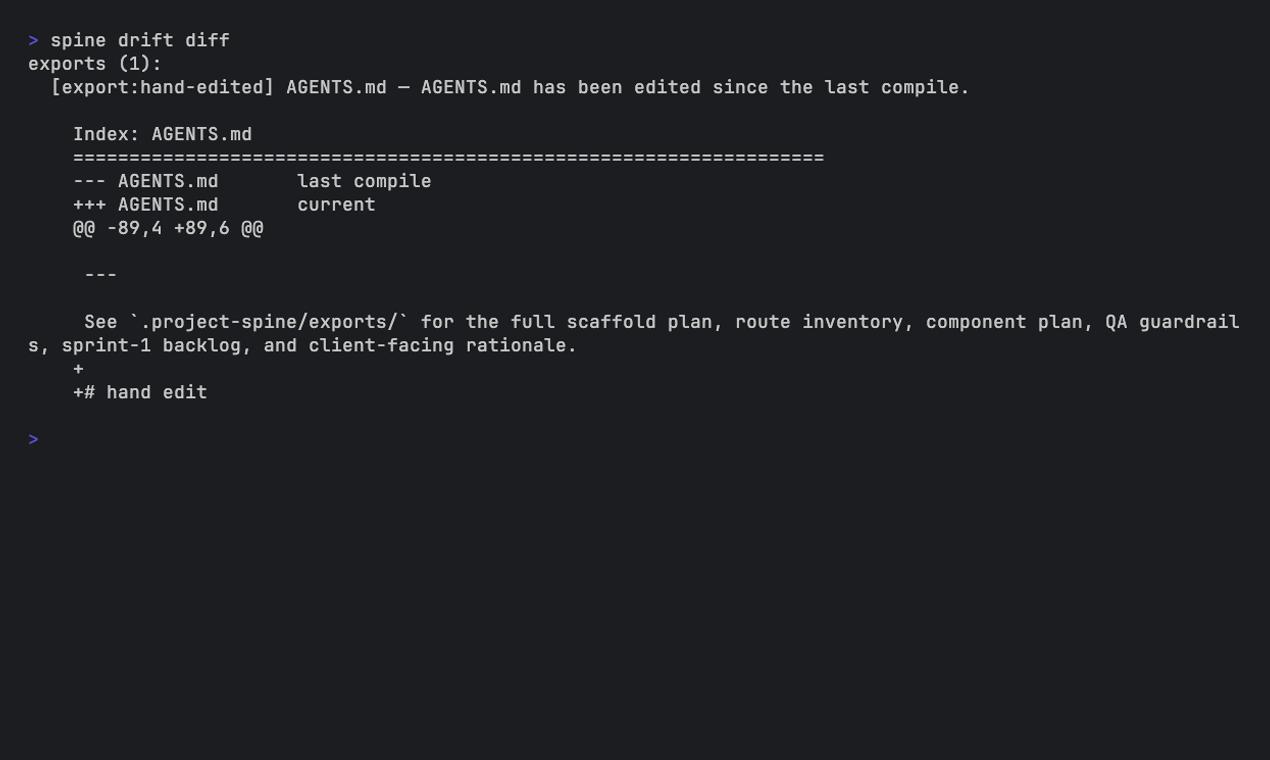
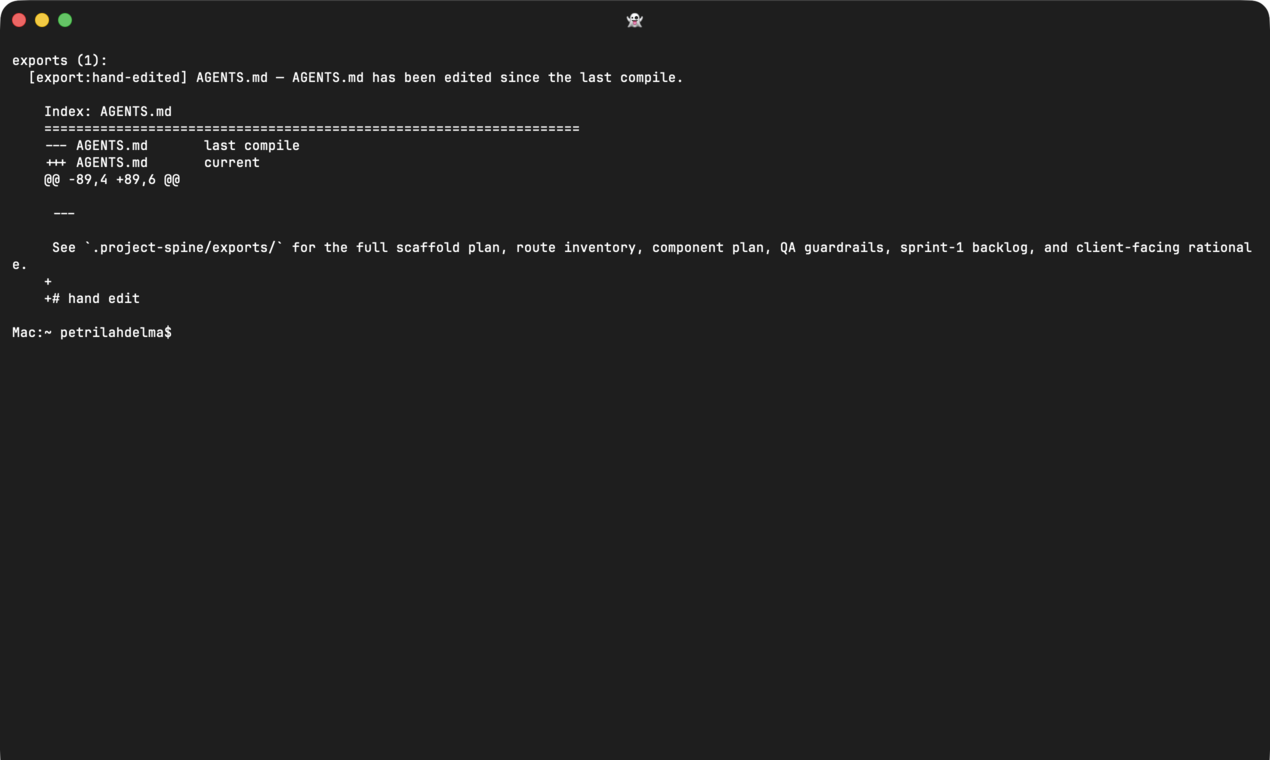
PH gallery v2: real Ghostty captures + claude slot + changelog + templates
Replaces the VHS-simulated terminal frames with authentic Ghostty
captures via screencapture -l on the Ghostty window id. Content is
byte-identical in meaning but the frames now show real Ghostty
chrome (macOS traffic lights, real font rendering, the user's actual
terminal emulator) instead of a synthesised approximation.

Gallery is now 6 assets for 5 PH slots — pick 5:

- hero.png          (unchanged — Chromium on projectspine.dev)
- demo.gif          (unchanged — the 60-s VHS demo GIF)
- drift-diff.png    (NEW, Ghostty — spine drift diff output)
- tree.png          (NEW, Ghostty — 3 discovery files + 11 exports)
- templates.png     (NEW, Ghostty — spine template list, 6 templates)
- changelog.png     (NEW, Chromium — /changelog page)
- claude.png        (NEW, Ghostty + claude CLI — "Read AGENTS.md
                     and summarise" round-tripping to a real
                     3-bullet answer; closes the brief → compile →
                     AGENTS.md → agent-consumes-it loop)

Recommended upload order documented in ph.md §3. claude.png is the
distinctive asset — it proves the downstream value instead of
describing it, which is the slot the gallery was missing.

Capture scripts are checked in next to their outputs
(capture-*.sh) so any slot can be regenerated deterministically.
The legacy VHS .tape and intermediate .gif files are removed.

diff --git a/docs/launch/ph.md b/docs/launch/ph.md
@@ -47,44 +47,67 @@ Length: ~110 words. Sharper, might split the room.
 
 PH allows 5 images in the gallery (plus one optional video). Image spec: 1270×760, PNG/JPG. First image is the hero and shows in the feed preview — it carries the most weight.
 
-### Plan (4 of 5 captured — slot 5 still needs your editor)
+### Shipped — 6 assets for 5 slots
 
-| # | File | Source | Size | Status |
-|---|------|--------|------|--------|
-| 1 | [`hero.png`](gallery/hero.png) | Headless-Chromium capture of `https://projectspine.dev` at 1270×760 | 108 KB | ✅ |
-| 2 | [`demo.gif`](gallery/demo.gif) | Copy of `docs/demo/demo.gif` (animated; PH accepts GIF in gallery) | 1.1 MB, 1100×700 | ✅ |
-| 3 | [`drift-diff.png`](gallery/drift-diff.png) | VHS tape `gallery/drift-diff.tape`, Tomorrow Night palette (Ghostty default) | 42 KB, 1270×760 | ✅ |
-| 4 | [`tree.png`](gallery/tree.png) | VHS tape `gallery/tree.tape`, same palette | 51 KB, 1270×760 | ✅ |
-| 5 | `editor.png` | Real screenshot of `AGENTS.md` open in Claude Code or Cursor with the agent panel visible | — | ⏳ your machine |
+All 1270×760. Terminal slots captured in real Ghostty (not simulated) via `screencapture -l <windowId>`; hero and changelog via headless Chromium on the live production site. Pick the 5 strongest for the PH upload.
+
+| File | What it shows | Size | Source |
+|---|---|---|---|
+| [`hero.png`](gallery/hero.png) | Site hero: wordmark + "The context layer your coding agents are missing." | 108 KB | Headless Chromium on `projectspine.dev` |
+| [`demo.gif`](gallery/demo.gif) | 60-s CLI demo: init → compile → drift check → drift diff | 1.1 MB, 1100×700 | `docs/demo/demo.tape` (VHS) |
+| [`drift-diff.png`](gallery/drift-diff.png) | `spine drift diff` showing the `+# hand edit` that slipped in | 60 KB | Ghostty, `capture-drift-diff.sh` |
+| [`tree.png`](gallery/tree.png) | The 3 tool-discovery files + 11 compiled exports (the "19 files per compile" proof) | 128 KB | Ghostty, `capture-tree.sh` |
+| [`templates.png`](gallery/templates.png) | `spine template list` — all 6 bundled templates with descriptions | 136 KB | Ghostty, `capture-templates.sh` |
+| [`changelog.png`](gallery/changelog.png) | `/changelog` page: "What shipped, when, and what changed" with the 0.9.x-alpha aside | 112 KB | Headless Chromium |
+| [`claude.png`](gallery/claude.png) | **The money shot.** `claude -p "Read AGENTS.md and summarise…"` answering with a 3-bullet summary pulled from the Spine-generated AGENTS.md. Closes the loop: brief → compile → AGENTS.md → real Claude consumes it. | 128 KB | Ghostty + claude CLI, `capture-claude.sh` |
+
+**Recommended 5-slot order for the PH upload:**
+
+1. `hero.png` — brand, sets the feed preview
+2. `claude.png` — the downstream proof, answers "what do I actually get"
+3. `drift-diff.png` — shows the distinctive capability (determinism + drift detection)
+4. `tree.png` — concrete output, 19 files
+5. `demo.gif` — the motion asset
+
+`templates.png` and `changelog.png` are held back as swap options if you want to replace any of the above.
 
 ### Regenerating
 
-The terminal slots are VHS-driven, so they re-render deterministically. `spine` must be on PATH (`npm i -g project-spine@next`):
+Every capture script lives alongside its output in `gallery/`. `spine` must be on PATH (`npm i -g project-spine@next`). Scripts assume Ghostty is your terminal — they print into whichever window is frontmost when run from your shell. For terminal slots:
 
 ```bash
-vhs docs/launch/gallery/drift-diff.tape
-vhs docs/launch/gallery/tree.tape
-# then extract the last frame of each GIF as a PNG
-magick docs/launch/gallery/drift-diff.gif -coalesce /tmp/d-%03d.png && cp "$(ls /tmp/d-*.png | tail -1)" docs/launch/gallery/drift-diff.png && rm /tmp/d-*.png
-magick docs/launch/gallery/tree.gif -coalesce /tmp/t-%03d.png && cp "$(ls /tmp/t-*.png | tail -1)" docs/launch/gallery/tree.png && rm /tmp/t-*.png
+bash docs/launch/gallery/capture-drift-diff.sh   # writes drift-diff content; screenshot the window
+bash docs/launch/gallery/capture-tree.sh
+bash docs/launch/gallery/capture-templates.sh
+bash docs/launch/gallery/capture-claude.sh       # takes ~30 s, calls claude -p
 ```
 
-Hero (production site) — requires the Playwright Chromium you already have cached at `~/Library/Caches/ms-playwright/chromium-1217/`:
+To capture the Ghostty window deterministically at 2540×1560 retina (then downscale to 1270×760):
+
+```bash
+WID=$(swift - <<'SW' 2>/dev/null
+import Cocoa
+import CoreGraphics
+if let arr = CGWindowListCopyWindowInfo([.optionOnScreenOnly, .excludeDesktopElements], kCGNullWindowID) as? [[String: AnyObject]] {
+  for w in arr {
+    if let o = w[kCGWindowOwnerName as String] as? String, o.lowercased().contains("ghostty") {
+      if let id = w[kCGWindowNumber as String] as? Int { print(id); break }
+    }
+  }
+}
+SW
+)
+screencapture -l "$WID" -o /tmp/raw.png
+magick /tmp/raw.png -resize 1270x760^ -gravity north -extent 1270x760 docs/launch/gallery/<slot>.png
+```
+
+Hero + changelog (production site):
 
 ```bash
 CHROMIUM='/Users/petrilahdelma/Library/Caches/ms-playwright/chromium-1217/chrome-mac-arm64/Google Chrome for Testing.app/Contents/MacOS/Google Chrome for Testing'
 "$CHROMIUM" --headless --disable-gpu --hide-scrollbars --window-size=1270,760 --virtual-time-budget=8000 --screenshot=docs/launch/gallery/hero.png https://projectspine.dev
+"$CHROMIUM" --headless --disable-gpu --hide-scrollbars --window-size=1270,760 --virtual-time-budget=10000 --screenshot=docs/launch/gallery/changelog.png https://projectspine.dev/changelog
 ```
-
-### Slot 5 — what to capture
-
-Open the generated `AGENTS.md` in whichever editor you actually use. Claude Code or Cursor are both fine — whichever one a hunter would recognise fastest is best. Frame it so:
-
-- The file is clearly `AGENTS.md` (filename visible in the tab/breadcrumb).
-- A recognisable section heading shows (e.g. "Conventions", "Quality bars") — proves it's real content, not a stub.
-- The agent panel is open with a short conversation visible, or a recent command referencing the file. Don't stage a fake convo — if there's nothing real, just show the file open.
-
-Save at `docs/launch/gallery/editor.png`, 1270×760 (retina-crop down to that if needed).
 
 ## 4. Version signal — alpha vs beta vs drop-tag
 
@@ -105,8 +128,7 @@ Ship a CHANGELOG entry that names the surface area this covers (CLI end-to-end, 
 Day -3:
 - [ ] Tagline chosen (§1)
 - [ ] Maker comment chosen + committed to a local scratch file (not the repo)
-- [x] Gallery slots 1–4 captured at 1270×760 (see `docs/launch/gallery/`)
-- [ ] Gallery slot 5 (editor screenshot) captured
+- [x] Gallery — 6 assets captured, all 1270×760, real Ghostty for terminal slots (see `docs/launch/gallery/`); pick 5 for upload
 - [ ] Version decision made (§4); if cutting `0.10.0`, PR + merge + `npm publish` before launch day
 - [ ] Mobile LCP reconfirmed ≤ 2.5 s on production (if not, ship mobile WebP fallback)
 
